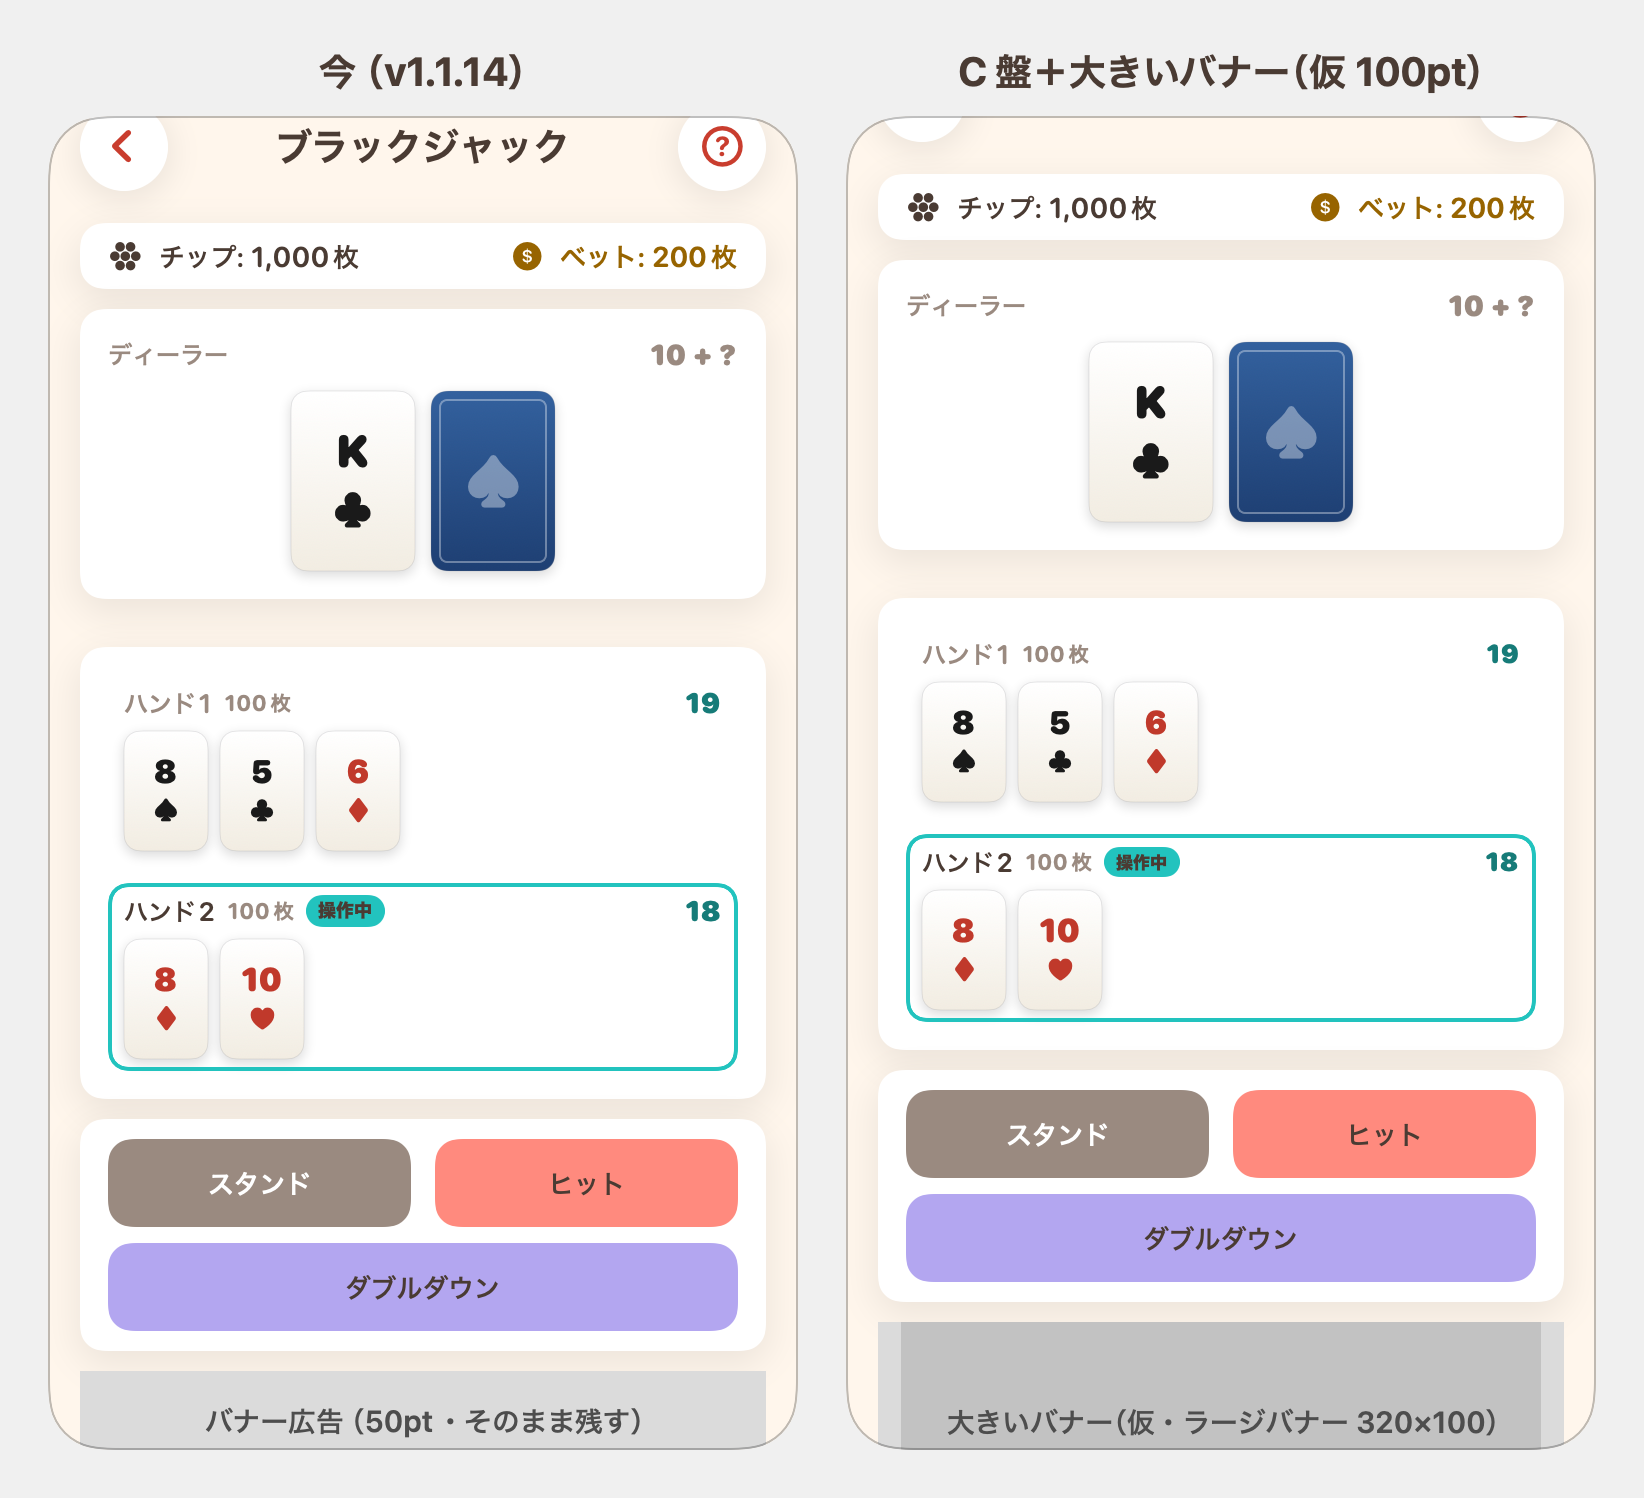
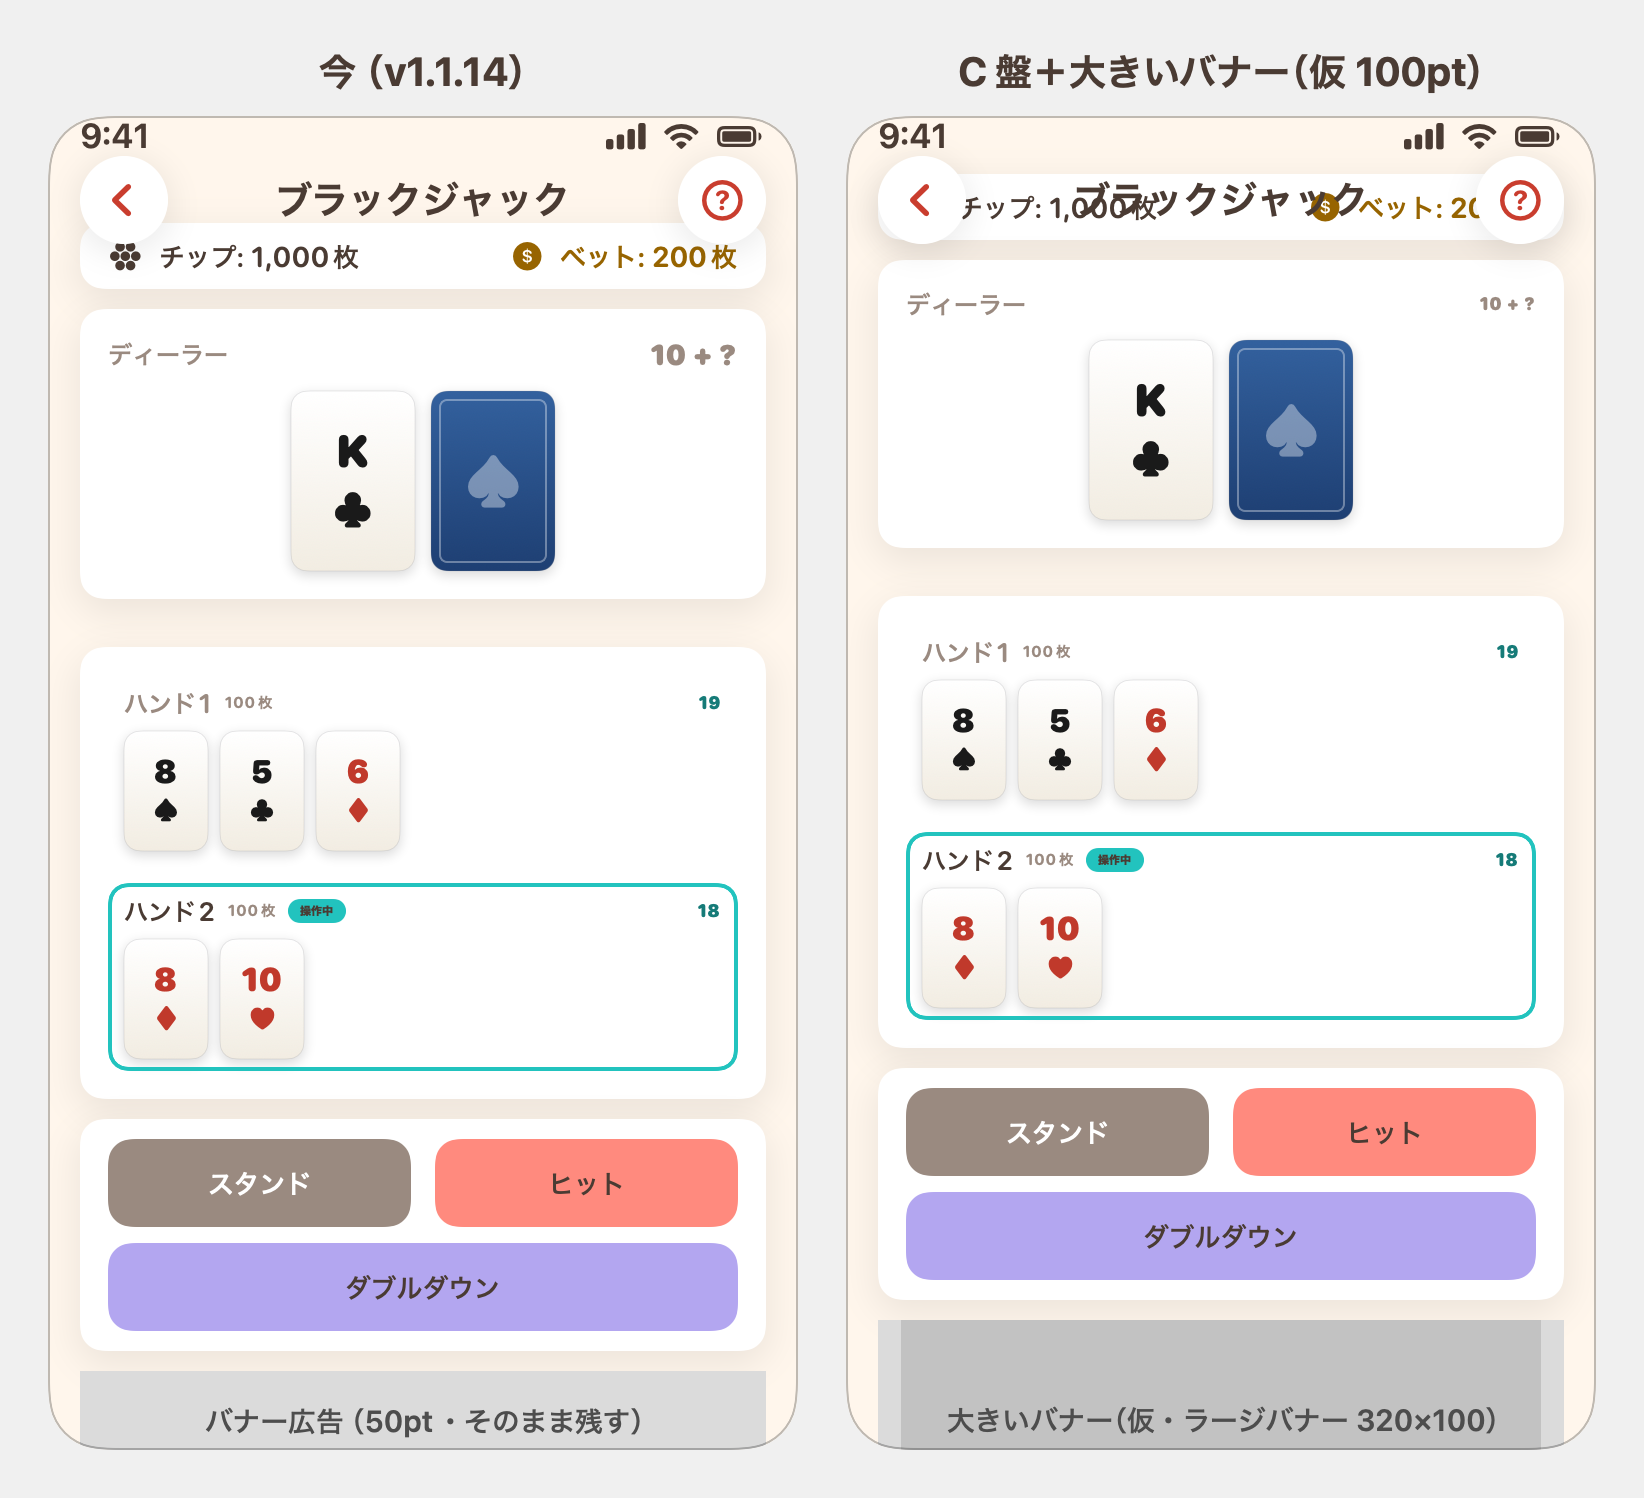
docs(design): ブラックジャックのモックの追従（+114 の内訳の訂正・溢れる局面の描き方とセル・凡例）(#2426)
- README: A で増える高さの内訳を実測どおりに（白い札 76 ＋ 帯 6 ＋ 外周と間隔 32）、溢れる局面で枠が縮むセル・
  バナーの上限が無いセル・6 枚の行の「詰める前」の値・帯の端末ごとの値・決着の局面の作り方の注記を直す
- 生成器: 中身が縦に溢れる局面で、ステータスバー・ナビバーまで一緒にずれて写っていたのを、実機と同じく
  ナビバーは動かず中身がその下に潜る描き方にする（画像 5 枚と JSON を差し替え。寸法は 1pt の丸め差だけ）

diff --git a/docs/design/layout-patterns-2111/blackjack/mock_generator.swift b/docs/design/layout-patterns-2111/blackjack/mock_generator.swift
@@ -508,8 +508,8 @@ private struct CurrentScreen: View {
         ZStack(alignment: .top) {
             Theme.background
             VStack(spacing: 0) {
-                StatusStrip(phone: phone)
-                NavHeader(phone: phone, title: tr("ブラックジャック"))
+                // ステータスバー・ナビバーの分（中身は別の層に描く。下を見よ）。
+                Color.clear.frame(height: phone.safeTop + phone.navBarHeight)
                 VStack(spacing: 10) {
                     ChipsBar(model: model, measure: measure, prefix: prefix)
                     VStack(spacing: 10) {
@@ -527,7 +527,16 @@ private struct CurrentScreen: View {
                 // 札の行が幅に収まらないと VStack ごと広がる。実機ではナビバーは別物（画面幅のまま）なので、
                 // 中身だけを画面幅の枠に収めて、溢れた分が左右に等しくはみ出す実機の見え方にする。
                 .frame(width: phone.width)
+                // 中身の枠の高さを使える高さに固定する。固定しないと溢れた分だけ画面全体（ナビバーごと）が上へずれて写る。
+                // 実機と同じく、溢れた中身はこの枠の上下に等しくはみ出す（上はナビバーの下へ潜る）。
+                .frame(height: phone.height - phone.safeTop - phone.navBarHeight - phone.safeBottom)
                 Color.clear.frame(height: phone.safeBottom)
+            }
+            // 実機ではステータスバー・ナビバーは中身と別の層で、中身が縦に溢れても動かない（溢れた中身は上下に等しく
+            // はみ出し、上はナビバーの下に潜る）。同じ見え方にするため、中身とは別にいちばん上の層へ描く。
+            VStack(spacing: 0) {
+                StatusStrip(phone: phone)
+                NavHeader(phone: phone, title: tr("ブラックジャック"))
             }
         }
         .frame(width: phone.width, height: phone.height)

diff --git a/docs/design/layout-patterns-2111/README.md b/docs/design/layout-patterns-2111/README.md
@@ -730,12 +730,12 @@ private な部分（チップの帯・ディーラー／あなたの札・スプ
 局面は中断データ（`BlackjackSnapshot`・あなたの番で保存される形）を `MemorySnapshotStore` に入れて `init(services:)` で復元して作った（3 つ）:
 **配った直後**（8♠ 8♦ 対 K♣＋伏せ札・ベット 100。「スタンド／ヒット」と「ダブルダウン／スプリット」の 2 段が出る、操作欄がいちばん高い局面）、
 **決着・手札が多いとき**（あなた 2♠ 3♥ 2♦ 4♣ A♠ 5♥ = 17 の 6 枚でスタンド → ディーラーが 2♣ 3♦ 4♥ 6♠ 9♦ = 24 の 5 枚でバスト → 勝ち ＋100。
-復元後に実物の `stand()` で決着させた）、**スプリット後**（ハンド 1 = 8♠ 5♣ 6♦ = 19 スタンド済み、ハンド 2 = 8♦ 10♥ = 18 を操作中・ダブルダウンの段あり・ベット 200）。
+ディーラーの 5 枚は中断データに入れた形で、復元後に実物の `stand()` で精算だけ通した。ディーラーが 15 から 9 を引く過程は通していないが、最終の盤面はルールどおり〔17 未満で引き、24 で止まる〕）、**スプリット後**（ハンド 1 = 8♠ 5♣ 6♦ = 19 スタンド済み、ハンド 2 = 8♦ 10♥ = 18 を操作中・ダブルダウンの段あり・ベット 200）。
 
 C の組み方: 今の画面のまま、画面最下部のバナーの枠だけ大きくする（それ以外は何も動かさない。バナーは仮の枠で、広告の実装はしない）。大きさは会長決裁待ち
 （下の「未決のこと」）なので、兄弟と同じ AdMob の定型 2 つ **ラージバナー 320×100（枠 100pt）** を主に、**MREC 300×250（枠 250pt）** は配った直後だけ画像にした。
-A の組み方は大富豪（#2431）と同じ: **フェルトを画面全体に敷き**（木枠なし）、ヘッダー（戻る・ゲーム名・？）をフェルトの上に置き、チップ・ベットの帯（33pt）を
-**1 行の札（28pt）**に、左右の余白を 16pt（＋白い札の内側 14pt）から 8pt に詰める。ディーラー・あなたの白い札を外してフェルトに直に置き（見出し・合計は白文字）、
+A の組み方は大富豪（#2431）と同じ: **フェルトを画面全体に敷き**（木枠なし）、ヘッダー（戻る・ゲーム名・？）をフェルトの上に置き、チップ・ベットの帯を
+**1 行の札**に（iPhone 17 で 34 → 28pt・SE で 33 → 27pt）、左右の余白を 16pt（＋白い札の内側 14pt）から 8pt に詰める。ディーラー・あなたの白い札を外してフェルトに直に置き（見出し・合計は白文字）、
 操作欄の白い札も外してボタンだけ置く。**札の大きさ（62×90・スプリットは 42×60）は今のまま**（ブラックジャックの札は固定 pt で、A にしても自動では大きくならない。
 大きくするなら別に規則が要る。下の表に「5 枚が収まる上限」を計算値で併記）。札の行が幅に収まらないときだけ、A では間隔を詰め、足りなければ重ねて収めた
 （今は `HStack(spacing: 8)` のまま溢れる実物の挙動で描いている）。バナーは画面最下部の地の帯に残す。
@@ -749,34 +749,36 @@ A の組み方は大富豪（#2431）と同じ: **フェルトを画面全体に
 | `blackjack/ip17_blackjack_many_cur_vs_a.png` | iPhone 17 | 同上 | 左＝今、右＝A（6 枚は間隔 2.8pt で収まる） |
 | `blackjack/ip17_blackjack_split_cur_vs_c.png` | iPhone 17 | スプリット後 | 左＝今、右＝C（100pt） |
 | `blackjack/ip17_blackjack_split_cur_vs_a.png` | iPhone 17 | スプリット後 | 左＝今、右＝A |
-| `blackjack/se3_blackjack_*.png`（同じ 7 枚） | iPhone SE | 同上 | 同上の SE 幅（スプリット後の「今」は中身が 53pt 溢れ、上下に等しくはみ出して写る） |
-| `blackjack/measure_blackjack.json` | 両方 | 3 局面 | 実測値 pt（`measure_spider.json` と同じ測り方。鍵は `<端末>_<pair\|many\|split>_<cur\|c100\|c250\|a\|a100>`。`_a100` は「A の詰め方＋バナー 100pt」〔計算用・画像なし〕。`avail_h_pt` が中身に使える高さ〔今・C はナビバーの下から画面の下の安全域まで、A はバナーの帯 50＋8＋安全域 を除いた高さ〕、`content_h_pt` が中身の高さ〔今・C は外周 16 込み、A はバナーの帯まで込み〕、`content_overflow_h_pt` が使える高さを超えた量、`chips_h_pt` がチップの帯／1 行の札、`dealer_*` / `player_*` がディーラー／あなたの枠〔今は白い札込み〕、`slack_pt` が卓の中央の余り〔`Spacer(minLength: 4)`〕、`actions_h_pt` が操作欄、`banner_*` がバナーの枠、`max_banner_without_shrink_pt` が「余りをバナーに回したときに札もボタンも 1pt も縮めずに入るバナーの枠」〔= バナー ＋（余り − 最小 4）〕、`row_avail_w_pt` が札の行に使える幅、`*_row_needed_w_pt` / `*_row_overflow_pt` が札の行に要る幅と溢れる量、`*_row_step_pt` が A で詰めたときの札の間隔〔札の幅 62 より小さければ重なる〕、`calc_card_w_fit5_pt` / `fit6` が同じ行に 5 枚／6 枚を 8pt 間隔で並べるときの札の幅の上限、`scene_*` が局面〔チップ・ベット・枚数・合計〕） |
+| `blackjack/se3_blackjack_*.png`（同じ 7 枚） | iPhone SE | 同上 | 同上の SE 幅（スプリット後の「今」は中身が 53pt 溢れ、上下に等しくはみ出す。上はナビバーの下に潜り、下は画面の外。ナビバーは実機と同じく動かない） |
+| `blackjack/measure_blackjack.json` | 両方 | 3 局面 | 実測値 pt（`measure_spider.json` と同じ測り方。鍵は `<端末>_<pair\|many\|split>_<cur\|c100\|c250\|a\|a100>`。`_a100` は「A の詰め方＋バナー 100pt」〔計算用・画像なし〕。`avail_h_pt` が中身に使える高さ〔今・C はナビバーの下から画面の下の安全域まで、A はバナーの帯 50＋8＋安全域 を除いた高さ〕、`content_h_pt` が中身の高さ〔今・C は外周 16 込み、A はバナーの帯まで込み〕、`content_overflow_h_pt` が使える高さを超えた量、`chips_h_pt` がチップの帯／1 行の札、`dealer_*` / `player_*` がディーラー／あなたの枠〔今は白い札込み〕、`slack_pt` が卓の中央の余り〔`Spacer(minLength: 4)`〕、`actions_h_pt` が操作欄、`banner_*` がバナーの枠、`max_banner_without_shrink_pt` が「余りをバナーに回したときに札もボタンも 1pt も縮めずに入るバナーの枠」〔= バナー ＋（余り − 最小 4）〕、`row_avail_w_pt` が札の行に使える幅、`*_row_needed_w_pt` / `*_row_overflow_pt` が札の行に 8pt 間隔で要る幅と、その幅が行からはみ出す量〔A でも**詰める前**の値。A で詰めて収まった行は `*_row_step_pt` が入る〕、`*_row_step_pt` が A で詰めたときの札の間隔〔札の幅 62 より小さければ重なる〕、`*_row_count` / `*_row_card_w_pt` / `*_row_card_h_pt` が行の枚数と札の寸法、`*_top_pt` / `*_bottom_pt` / `*_w_pt` が各枠の画面座標〔溢れる局面は `content_top_pt` が使える上端より上になる〕、`felt_*` が A のフェルト〔画面幅 × バナーの帯を除いた高さ〕、`calc_card_w_fit5_pt` / `fit6` が同じ行に 5 枚／6 枚を 8pt 間隔で並べるときの札の幅の上限、`scene_*` が局面〔チップ・ベット・枚数・合計〕） |
 
 実測（pt。「配った直後 / 決着（6 枚） / スプリット後」の順。ナビバーは iPhone 17 が 54pt・SE が 44pt〔#2435・#2438 と同じ〕）:
 
 | | iPhone 17 今 | iPhone 17 C 100pt | iPhone 17 C 250pt | iPhone 17 A | iPhone SE 今 | iPhone SE C 100pt | iPhone SE C 250pt | iPhone SE A |
 |---|---|---|---|---|---|---|---|---|
 | 卓の中央の余り（ディーラーとあなたのあいだ） | 152 / 169 / 69 | **102 / 119 / 19** | 4 / 4 / 4 | **266 / 283 / 183** | 32 / 49 / 4 | 4 / 5 / 4 | 4 / 4 / 4 | **146 / 163 / 63** |
-| 中身が使える高さを超える量 | 0 / 0 / 0 | 0 / 0 / 0 | **50 / 29 / 133** | 0 / 0 / 0 | 0 / 0 / **53** | **20** / 0 / **103** | **170 / 149 / 253** | 0 / 0 / 0 |
-| 札もボタンも縮めずに入るバナーの枠の上限 | 198 / 215 / 115 | （同左） | — | 312 / 329 / 229 | **78 / 95 / 50** | （同左） | — | 192 / 209 / 109 |
+| 中身が使える高さを超える量 | 0 / 0 / 0 | 0 / 0 / 0 | **50 / 29 / 132** | 0 / 0 / 0 | 0 / 0 / **53** | **20** / 0 / **102** | **170 / 149 / 252** | 0 / 0 / 0 |
+| 札もボタンも縮めずに入るバナーの枠の上限（溢れている局面は —） | 198 / 215 / 115 | （同左） | — | 312 / 329 / 229 | **78 / 95 / —** | （同左） | — | 192 / 209 / 109 |
 | 札（あなた・単独 / スプリット） | 62×90 / 42×60 | 同じ | 同じ | **62×90 / 42×60（同じ）** | 62×90 / 42×60 | 同じ | 同じ | **同じ** |
 | 札の行に使える幅 | 342 | 342 | 342 | **386** | 315 | 315 | 315 | **359** |
-| 5 枚の行（342pt）/ 6 枚の行（412pt）の溢れ | 0 / **70** | 0 / 70 | 0 / 70 | 0 / **0（間隔 2.8）** | **27 / 97** | 27 / 97 | 27 / 97 | **0 / 0（2.6 重なる）** |
+| 5 枚の行（342pt）/ 6 枚の行（412pt）の溢れ | 0 / **70** | 0 / 70 | 0 / 70 | 0 / **0（詰める前 26・間隔を 2.8 に）** | **27 / 97** | 27 / 97 | 27 / 97 | **0 / 0（詰める前 53・2.6 重なる）** |
 | 計算値: 5 枚が 8pt 間隔で収まる札の幅の上限 | 62 | 62 | 62 | **70.8** | 56.6 | 56.6 | 56.6 | **65.4** |
 | チップの帯 / 1 行の札 | 34 | 34 | 34 | 28 | 33 | 33 | 33 | 27 |
-| ディーラーの枠（白い札込み / フェルト上） | 145 | 145 | 145 | 117 | 145 | 145 | 145 | 117 |
-| あなたの枠（単独 / 決着・バッジあり / スプリット） | 145 / 149 / 228 | 同じ | 同じ | 117 / 121 / 200 | 145 / 149 / 226 | 同じ | 同じ | 117 / 121 / 200 |
+| ディーラーの枠（白い札込み / フェルト上） | 145 | 145 | 144 | 117 | 145 | 144 | 144 | 117 |
+| あなたの枠（単独 / 決着・バッジあり / スプリット） | 145 / 149 / 228 | 同じ | 144 / 144 / 226 | 117 / 121 / 200 | 145 / 149 / 226 | 144 / 144 / 226 | 144 / 144 / 226 | 117 / 121 / 200 |
 | 操作欄（2 段 / 決着 / スプリット・ダブルの段あり） | 116 / 95 / 116 | 同じ | 同じ | 96 / 75 / 96 | 116 / 95 / 116 | 同じ | 同じ | 96 / 75 / 96 |
 | バナーの枠 | 50 | 100 | 250 | 50 | 50 | 100 | 250 | 50 |
 
 「今」の iPhone 17 の高さの内訳（配った直後・中身 724pt = 外周 16 ＋ 帯 34 ＋ 10 ＋ ディーラー 145 ＋ 10 ＋ 余り 152 ＋ 10 ＋ あなた 145 ＋ 10 ＋ 操作欄 116 ＋ 10 ＋
 バナー 50 ＋ 外周 16）。SE は 603pt（= 667 − 20 − 44）で同じ内訳の余りが 32pt。「A の詰め方＋バナー 100pt」（JSON の `*_a100`）の余りは iPhone 17 で 217 / 234 / 134、
 SE で 96 / 113 / **13**。
+溢れている局面（中身が使える高さを超える量が 0 でない列）では、ディーラー・あなたの白い札が 1〜5pt 縮む（表の 144 / 226）。SE のスプリット後の「今」は
+バナー 50pt のままで既に溢れているので、「縮めずに入るバナーの枠の上限」は無い（—）。
 
 読み取り:
 
 - **ブラックジャックの札は固定 62×90pt で、A にしても自動では 1pt も大きくならない**（いろリレー #2432 と同型）。A で増える高さ（iPhone 17 で +114pt・SE で +114pt。
-  内訳: 白い札の内側 14×2 × 3 枠 = 84・帯 → 1 行の札 6・外周と間隔の差 24）は、そのまま**卓の中央の空き**（ディーラーとあなたのあいだ。iPhone 17 で 152 → 266pt）になる。
+  内訳: 白い札を外した分 76〔ディーラー 28 ＋ あなた 28 ＋ 操作欄 20。操作欄の内側は上下 10〕・帯 → 1 行の札 6・外周 16×2 と間隔 10×5 → 8×4 と 2 の差 32）は、そのまま**卓の中央の空き**（ディーラーとあなたのあいだ。iPhone 17 で 152 → 266pt）になる。
   札を大きくするなら「5 枚が行に収まる幅」などの規則を別に決める必要があり、その上限は今の組み方で iPhone 17 62pt（今ちょうど）・SE 56.6pt（今は溢れている）、
   A なら 70.8 / 65.4pt。
 - A の効きは**横幅**。札の行に使える幅が 342 → 386pt（SE 315 → 359pt）になり、**5 枚が SE でも収まり（今は 27pt 溢れる・#2496）、6 枚も iPhone 17 では
@@ -784,7 +786,7 @@ SE で 96 / 113 / **13**。
   画像 `*_many_cur_*` の左）。もう一つは**SE の縦**で、スプリット後の今は中身が 656pt と使える 603pt を 53pt 超え、上はナビバーの下に、下は画面の外に 26.5pt ずつ
   潜る（#2498）。A では 63pt 余る。
 - **C（ラージバナー 100pt）は iPhone 17 なら 3 局面とも札もボタンも 1pt も縮めずに入る**（残る余り 102 / 119 / 19pt。スプリット後がいちばん詰まる）。
-  **SE では配った直後（2 段の操作欄）で 20pt・スプリット後で 103pt 溢れ**、収まるのは操作欄が 1 段の局面（決着・ヒット後）だけ。C を採るなら、SE は 50pt のままに
+  **SE では配った直後（2 段の操作欄）で 20pt・スプリット後で 103pt 溢れ**、収まるのは操作欄が 1 段の決着の局面だけで、それも余り 5pt（最小 4pt）のぎりぎり。C を採るなら、SE は 50pt のままに
   する（端末で分ける）か、下の「A の詰め方」と組み合わせる必要がある。**MREC（250pt）は iPhone 17 でも全局面で溢れる**（29〜133pt）ので合わない。
 - **「A の詰め方＋バナー 100pt」は両端末・3 局面とも収まる**（JSON の `*_a100`。余りは iPhone 17 で 134〜234pt、SE で 13〜113pt。SE のスプリット後は 13pt で
   ぎりぎり）。マインスイーパー・2048・15 パズルと同じ結論で、大きいバナーを置くなら今の組み方より A の詰め方が土台になる。ただしブラックジャックの A は
